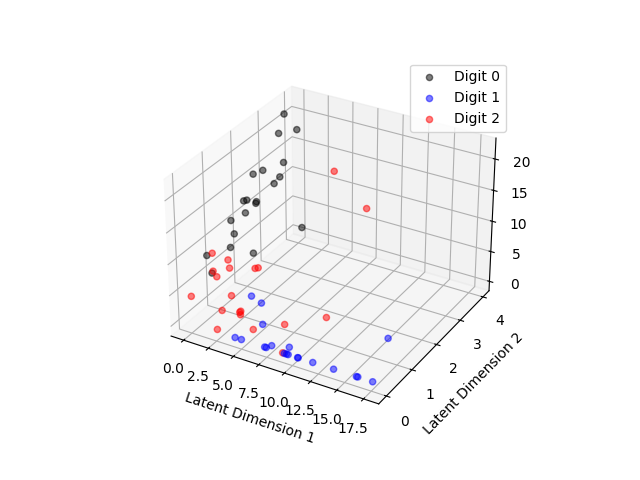
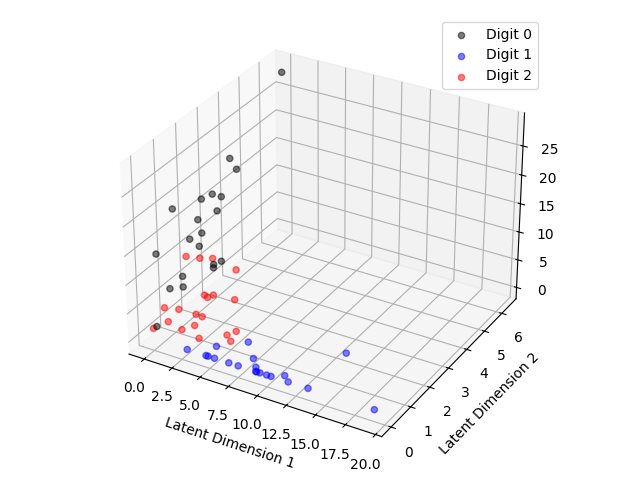
Regeerate latent 3D plots

diff --git a/xai/experiments/latent_space_3d/generate_plot_script.py b/xai/experiments/latent_space_3d/generate_plot_script.py
@@ -86,4 +86,4 @@ residual_plot_fname = "residuals_3d.png"
 
 residuals = latents - latents_approx
 plot_latent_space_3d(residuals, labels_digits, digits)
-# plt.savefig(LATENT_FIGURES_DIR / residual_plot_fname, format='png')
+plt.savefig(LATENT_FIGURES_DIR / residual_plot_fname, format='png')
